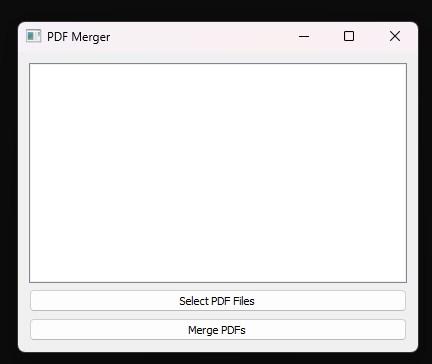
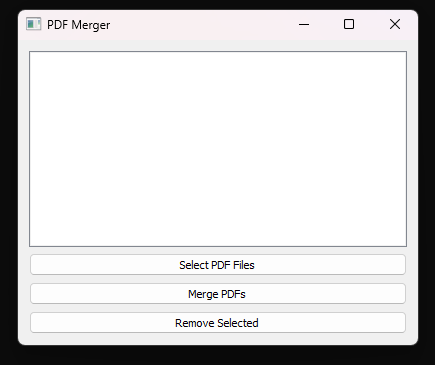
added deselection for files feature

Changed region(s): [[0.0301, 0.0, 0.9931, 0.967], [0.0602, 0.8159, 0.0903, 0.8462], [0.0602, 0.1511, 0.0903, 0.1813]]

diff --git a/interface.py b/interface.py
@@ -25,12 +25,17 @@ class PDFMergerApp(QWidget):
         mergeButton = QPushButton("Merge PDFs", self)
         layout.addWidget(mergeButton)
 
+        # Button to remove selected files
+        removeButton = QPushButton("Remove Selected", self)
+        layout.addWidget(removeButton)
+
         # Set up drag and drop
         self.setAcceptDrops(True)
 
         # Connect buttons to corresponding actions
         selectButton.clicked.connect(self.selectFiles)
         mergeButton.clicked.connect(self.mergePDFs)
+        removeButton.clicked.connect(self.removeSelectedFiles)
 
     def dragEnterEvent(self, event: QDragEnterEvent):
         if event.mimeData().hasUrls():
@@ -46,6 +51,17 @@ class PDFMergerApp(QWidget):
         files, _ = QFileDialog.getOpenFileNames(self, "Select PDF Files", "", "PDF Files (*.pdf)")
         for file in files:
             self.pdfList.addItem(file)
+
+    def removeSelectedFiles(self):
+        # Get the currently selected items
+        selected_items = self.pdfList.selectedItems()
+        
+        if selected_items:
+            for item in selected_items:
+                row = self.pdfList.row(item)
+                self.pdfList.takeItem(row)  # Remove item from the list
+        else:
+            QMessageBox.warning(self, "Error", "Please select a file to remove.")
 
     def mergePDFs(self):
         if self.pdfList.count() < 2:
